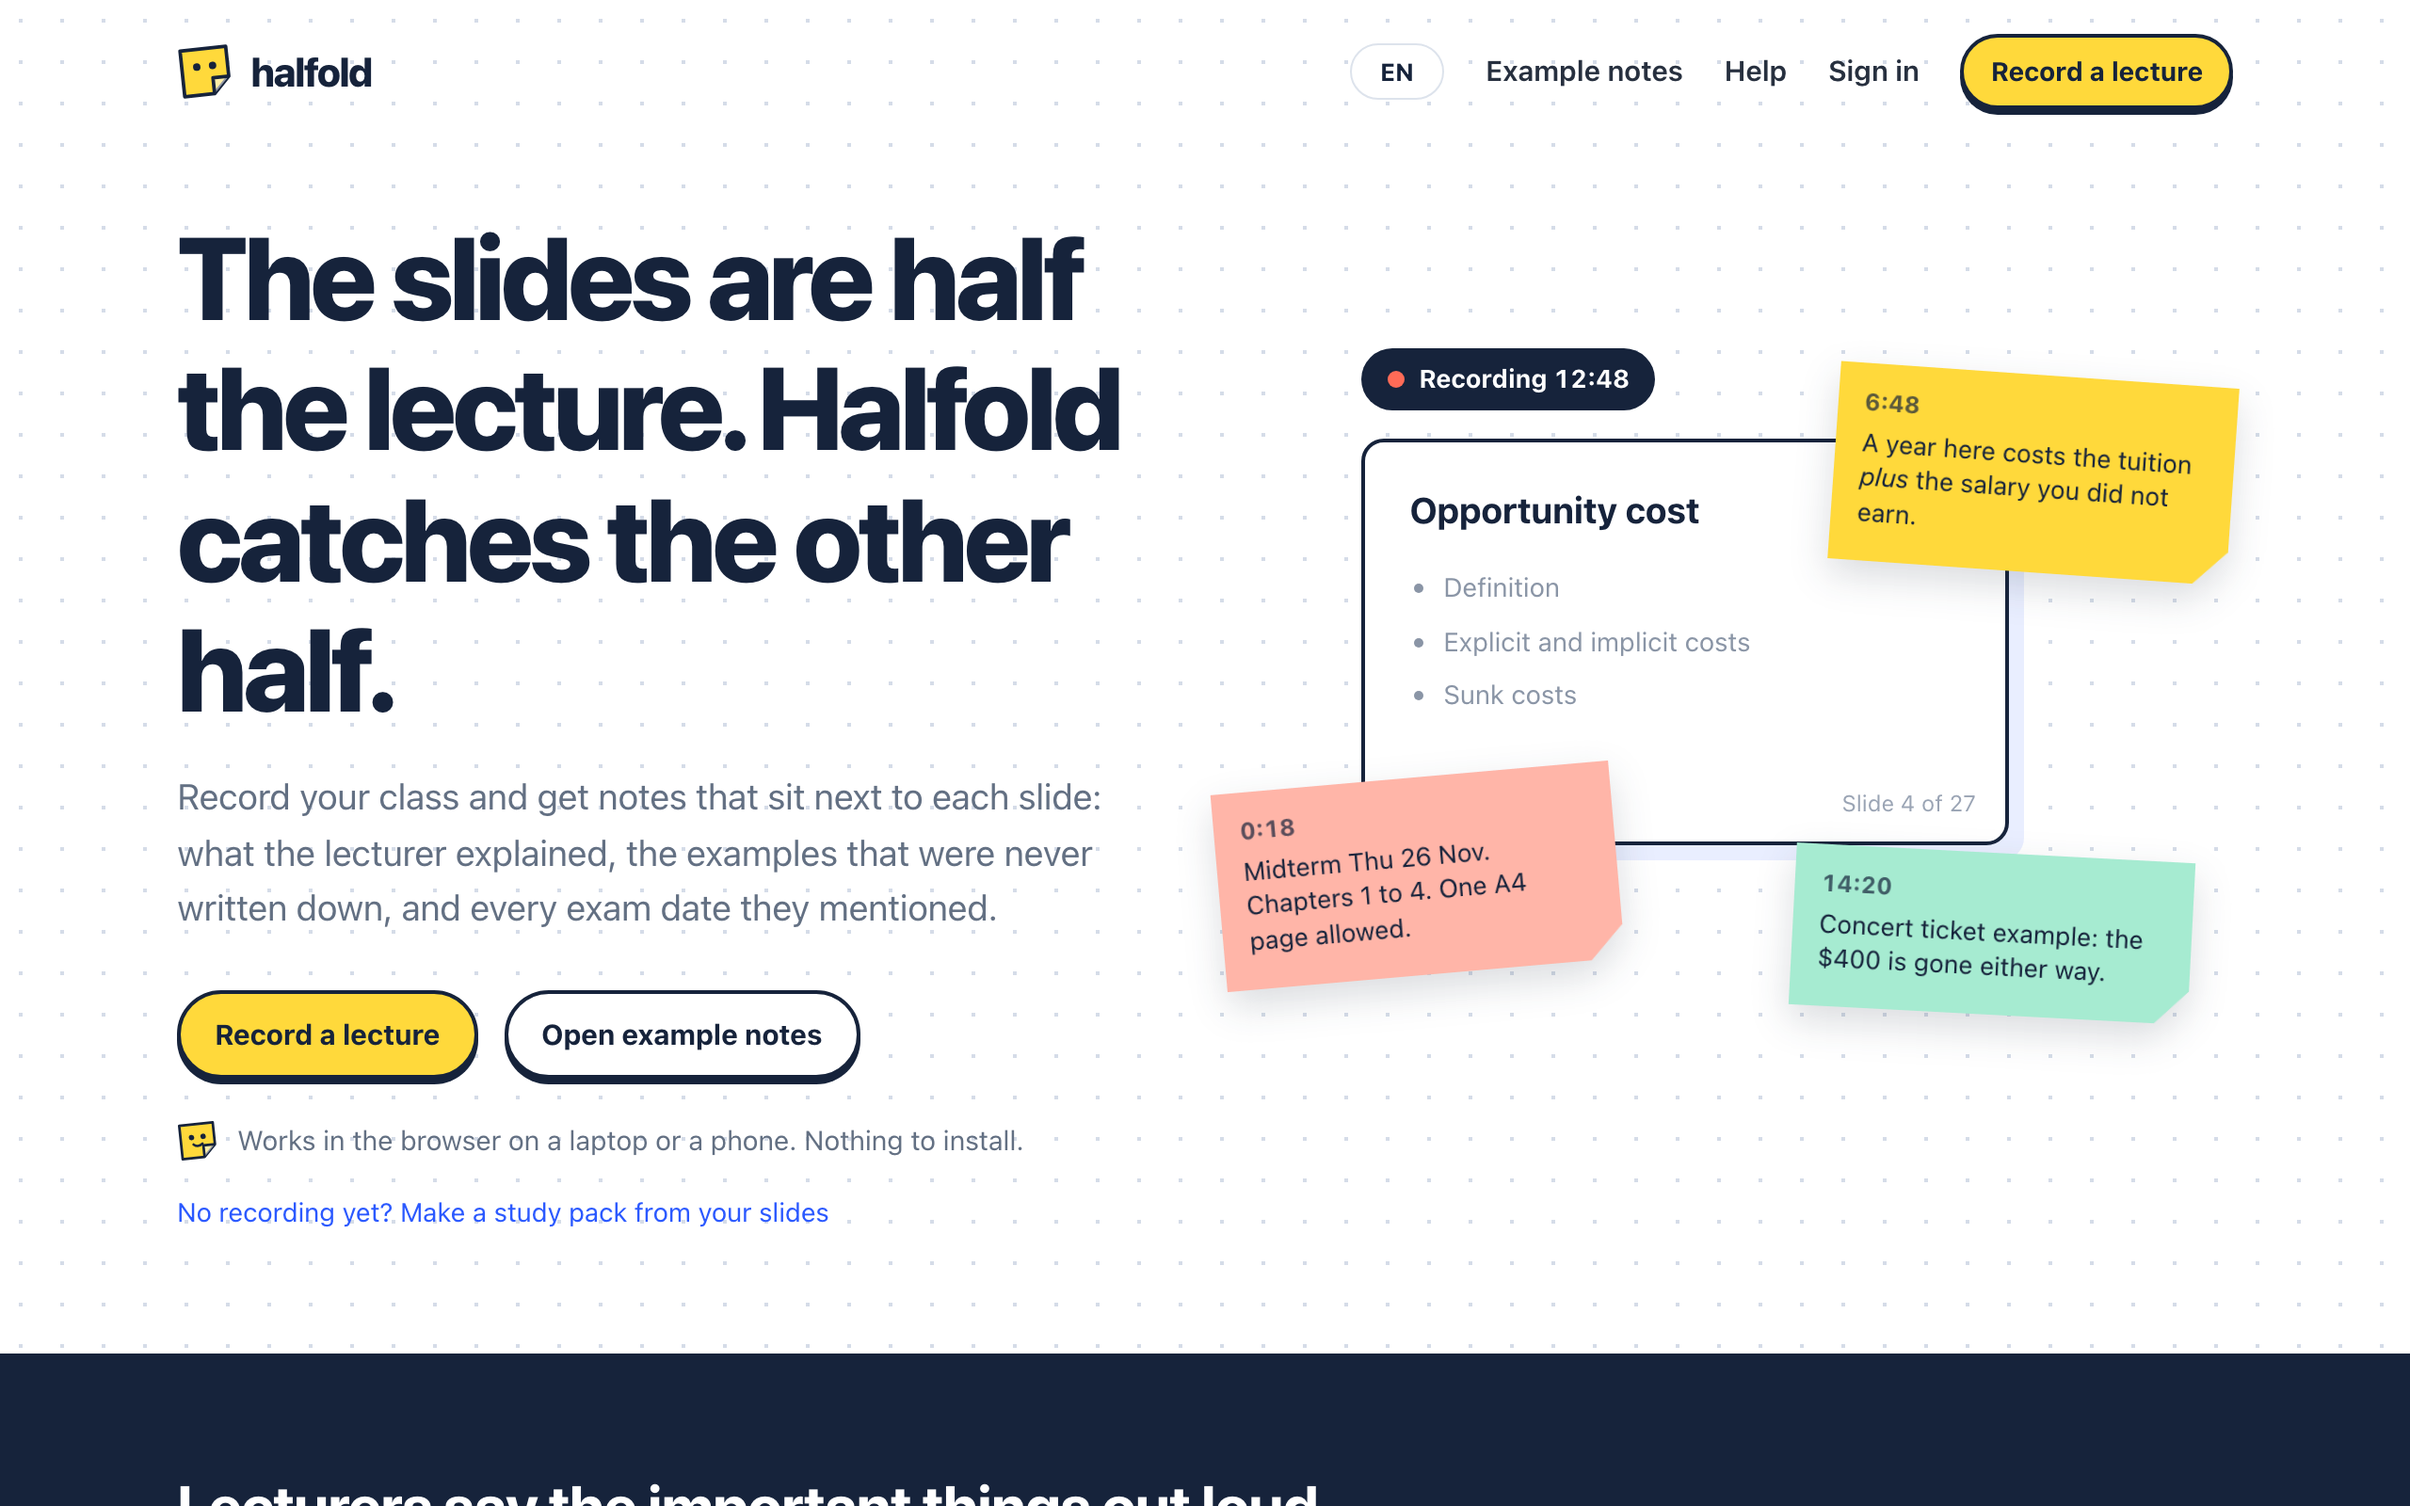
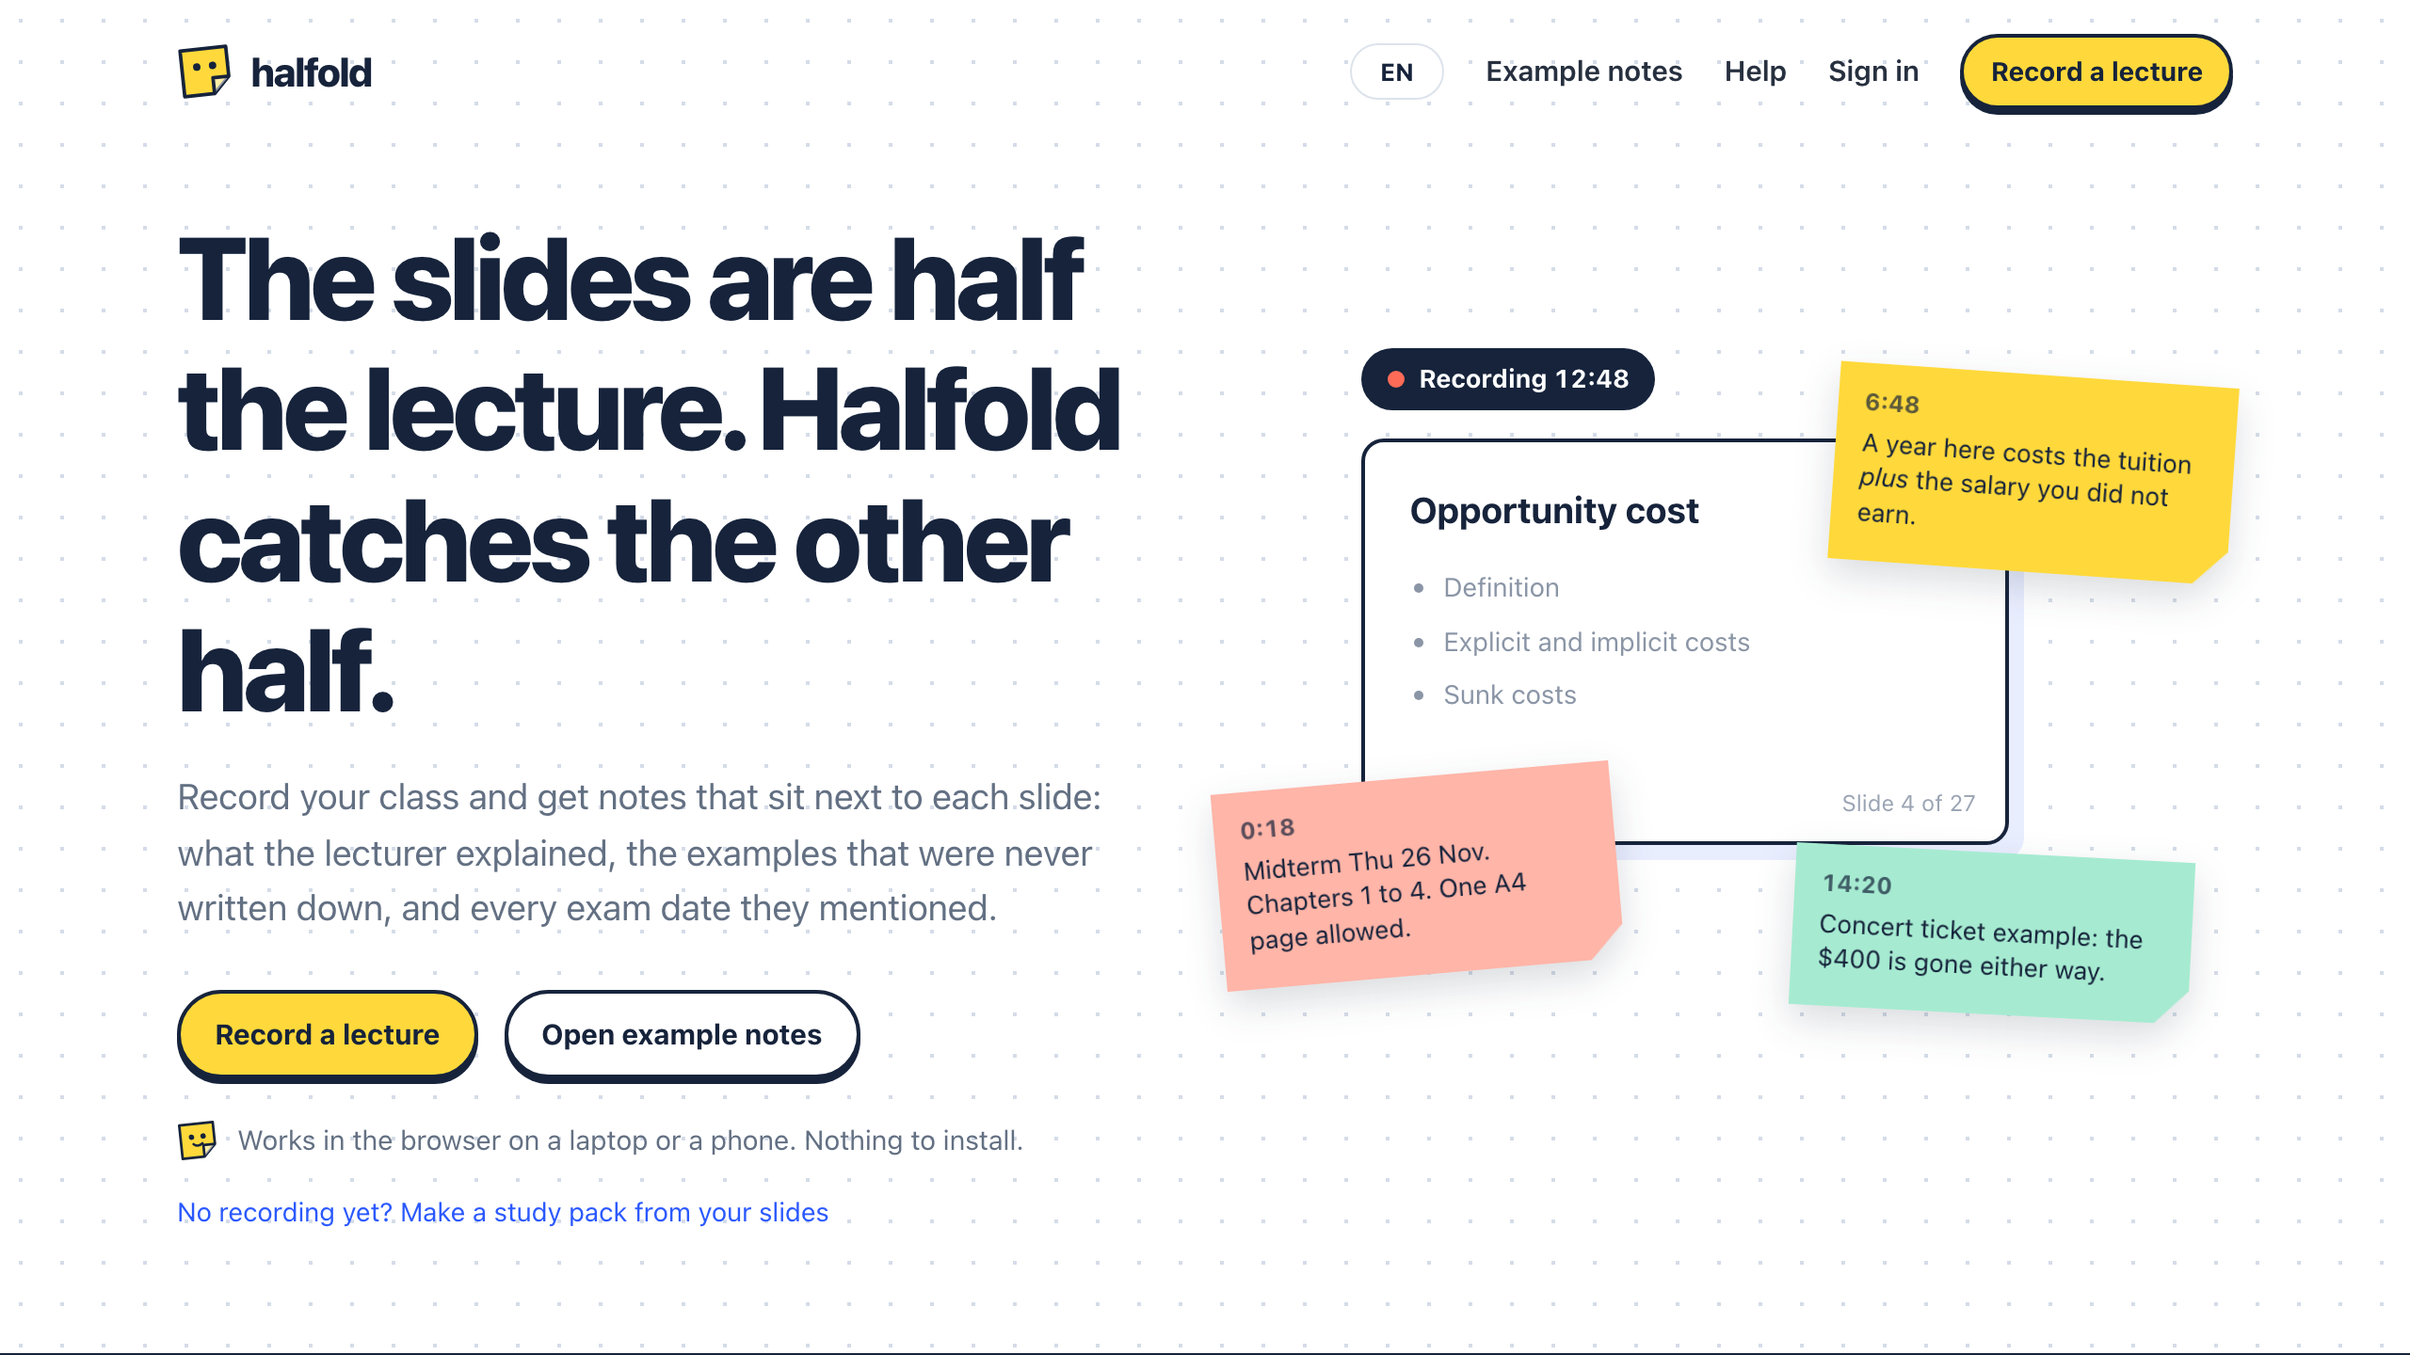
README: a drawn diagram instead of Mermaid, and the landing picture cropped to the hero
GitHub showed the Mermaid flowchart zoomed in on one box. docs/images/architecture.svg
(and its Chinese copy) shows the browser, the server and the six services it uses.
The landing screenshot stopped halfway into the next section's heading; it is now the
hero alone.

diff --git a/README.md b/README.md
@@ -64,16 +64,9 @@ No recording at all? Add the slide deck on its own and get a **study pack**: exp
 
 ## How it works
 
-```mermaid
-flowchart LR
-  B["Browser<br/>React app"] -- "audio every 15 s,<br/>uploads, slide PDFs" --> S["Halfold server<br/>Node + Hono"]
-  S --> STT["Speech to text<br/>Deepgram (default),<br/>ElevenLabs, Soniox, AssemblyAI"]
-  S --> LLM["DeepSeek<br/>notes, cards, quiz,<br/>review packs, answers"]
-  S --> DB[("SQLite")]
-  S --> R2[("Cloudflare R2<br/>recordings, backups")]
-  S --> Pay["Stripe<br/>plans"]
-  S --> Mail["Resend<br/>sign-in codes"]
-```
+<p align="center">
+  <img src="docs/images/architecture.svg" alt="The browser sends audio to the Halfold server, which uses speech to text, DeepSeek, SQLite, Cloudflare R2, Stripe and Resend" width="900">
+</p>
 
 1. **Recording.** The browser records in 15-second pieces and sends each one as it goes, so a dropped connection or a closed tab loses at most a few seconds. Unsent audio waits in IndexedDB until it can be sent.
 2. **Transcript.** Each piece is transcribed as it arrives, which is the live transcript. When the class ends only the last few seconds are left, and the notes are written from those same lines. Uploads and links are transcribed in one go.

diff --git a/README.zh-CN.md b/README.zh-CN.md
@@ -60,16 +60,9 @@ Halfold 在浏览器里用，电脑和手机都行，不用安装。学生录下
 
 ## 怎么做到的
 
-```mermaid
-flowchart LR
-  B["浏览器<br/>React 前端"] -- "每 15 秒一段录音、<br/>上传文件、课件 PDF" --> S["Halfold 后端<br/>Node + Hono"]
-  S --> STT["转写<br/>Deepgram（默认）、<br/>ElevenLabs、Soniox、AssemblyAI"]
-  S --> LLM["DeepSeek<br/>笔记、闪卡、测验、<br/>复习包、回答"]
-  S --> DB[("SQLite")]
-  S --> R2[("Cloudflare R2<br/>录音、备份")]
-  S --> Pay["Stripe<br/>方案"]
-  S --> Mail["Resend<br/>登录验证码"]
-```
+<p align="center">
+  <img src="docs/images/architecture.zh-CN.svg" alt="浏览器把录音传给 Halfold 后端，后端用转写服务、DeepSeek、SQLite、Cloudflare R2、Stripe 和 Resend" width="900">
+</p>
 
 1. **录音。** 浏览器每 15 秒切一段，录一段传一段，断网或不小心关掉页面最多丢几秒。没传出去的录音存在 IndexedDB 里，等能传的时候再传。
 2. **转写。** 每段一到就转写，这就是实时字幕。下课时只剩最后几秒要转，笔记就用这些转好的句子写。上传的录音和链接一次转完。
